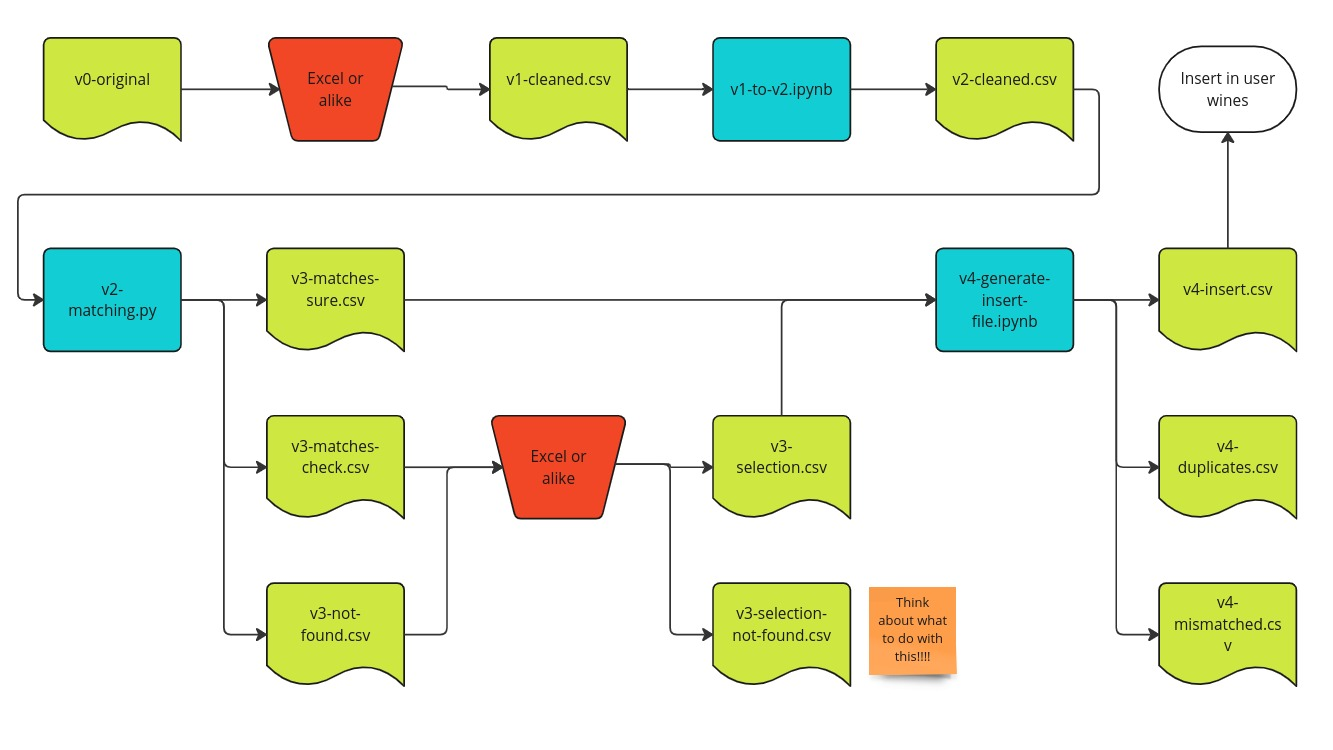
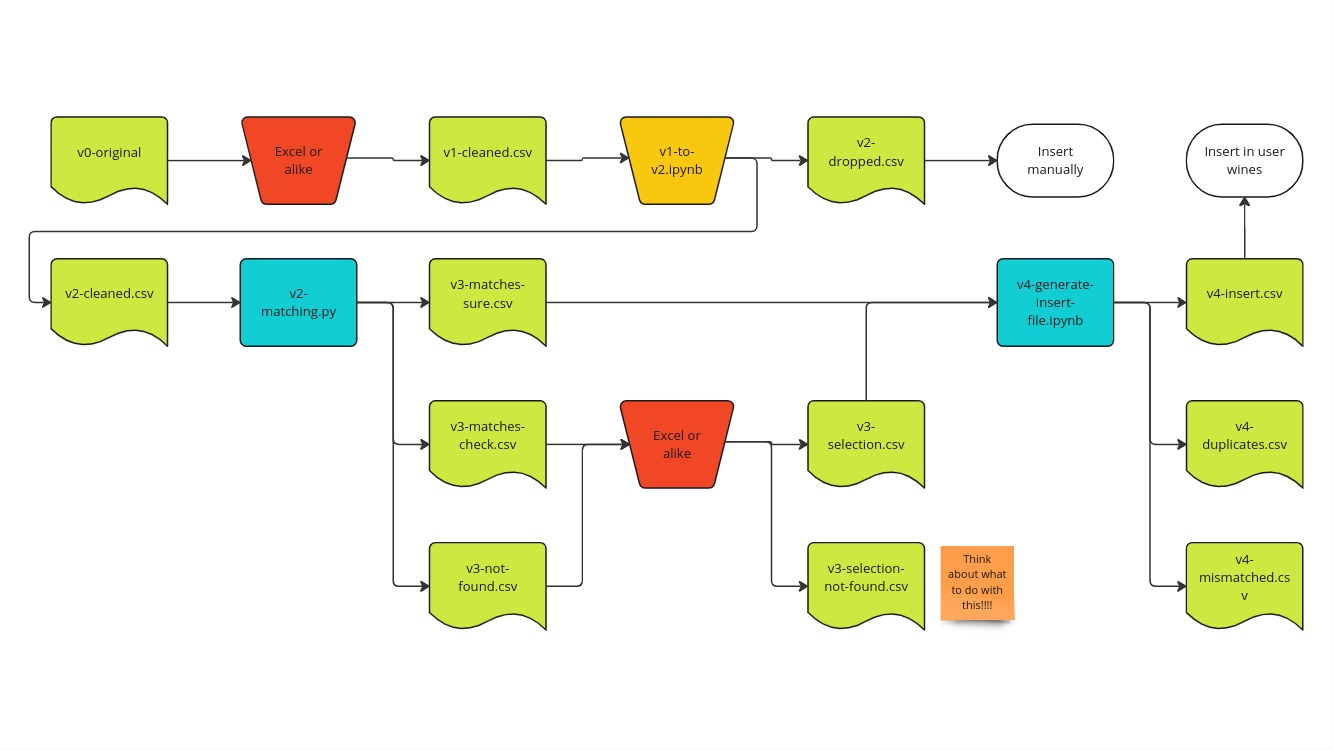
chore: update README and onboarding pipeline

diff --git a/README.md b/README.md
@@ -13,6 +13,7 @@ This table provides an overview of the purpose and formatting of the documents o
 | ---------------------------- | ------------------------------------------------------------------------------ | --------- |
 | `v0-original`                | Raw input file from the client.                                                | input     |
 | `v1-cleaned.csv`             | Input file with formatted headers.                                             | input     |
+| `v2-dropped.csv`             | Input File with formatted headers and content. Used to add wines manually.     | input     |
 | `v2-cleaned.csv`             | Input File with formatted headers and content. Used to find matches in DB.     | input     |
 | `v3-matches-sure.csv`        | Wines matched automatically with the DB. No further check.                     | matches   |
 | `v3-matches-check.csv`       | Wines matched automatically with the DB. Manual check needed.                  | matches   |
@@ -48,6 +49,30 @@ Contents must be formatted so that these types are respected:
 | `quantity`       | `int`   |
 | `internal_notes` | `str`   |
 
+The `size` field has only some allowed values. The standard mapping is this:
+
+```python
+{
+    '0.375': 'HALF_BOTTLE',
+    '0.5': 'HALF_LITER',
+    '0.75': 'BOTTLE',
+    '1': 'LITER',
+    '1.5': 'MAGNUM',
+    '3': 'JEROBOAM',
+    '4.5': 'REHOBOAM',
+    '5': 'BORDEAUX_JEROBOAM',
+    '6': 'MATHUSALEM',
+    '9': 'SALMANAZAR',
+    '12': 'BALTHAZAR',
+    '15': 'NEBUCHADNEZZAR',
+    '18': 'MELCHIOR',
+    '20': 'SOLOMON',
+    '25': 'SOVEREIGN',
+    '27': 'GOLIATH',
+    '30': 'MELCHIZEDEK'
+}
+```
+Where the key is the bottle size in liters.
 
 ### v3
 These files are generated after the automatic matching. In addition to the fields in `v2`, these are added:
